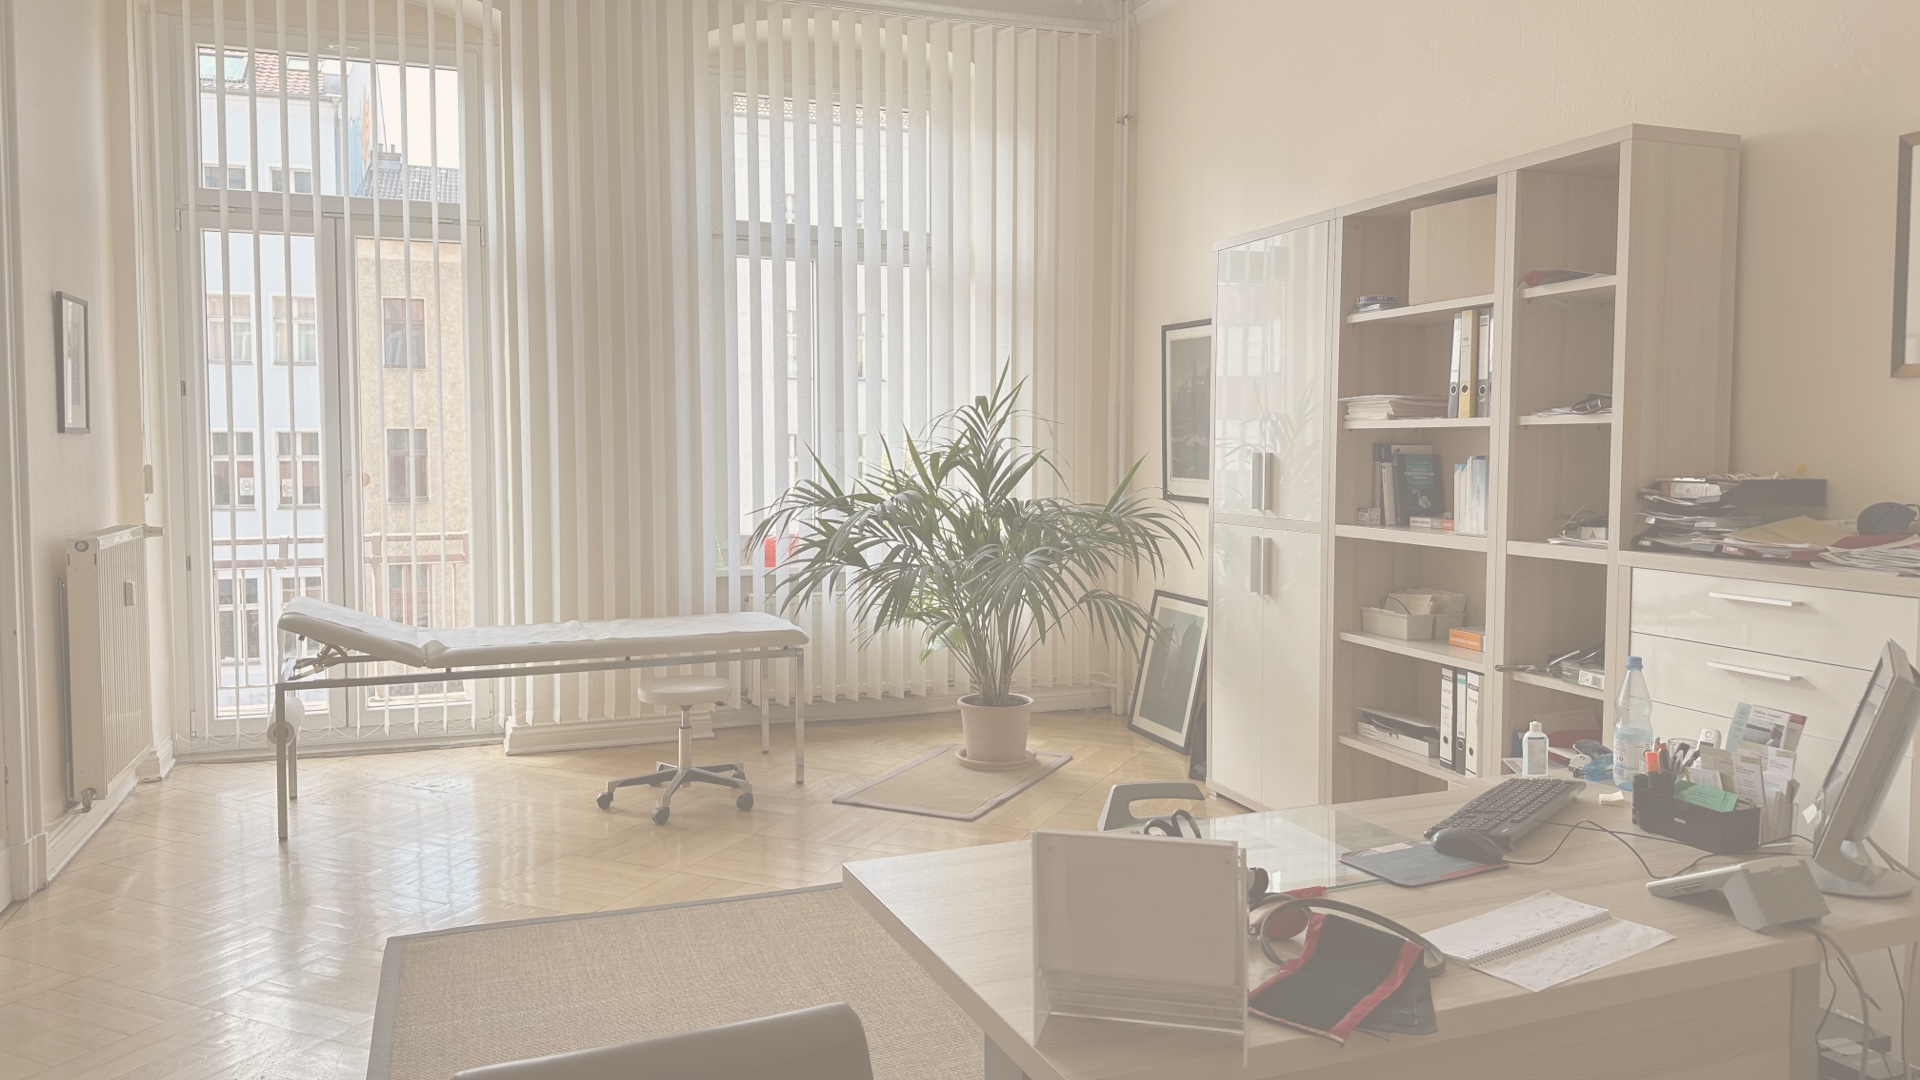
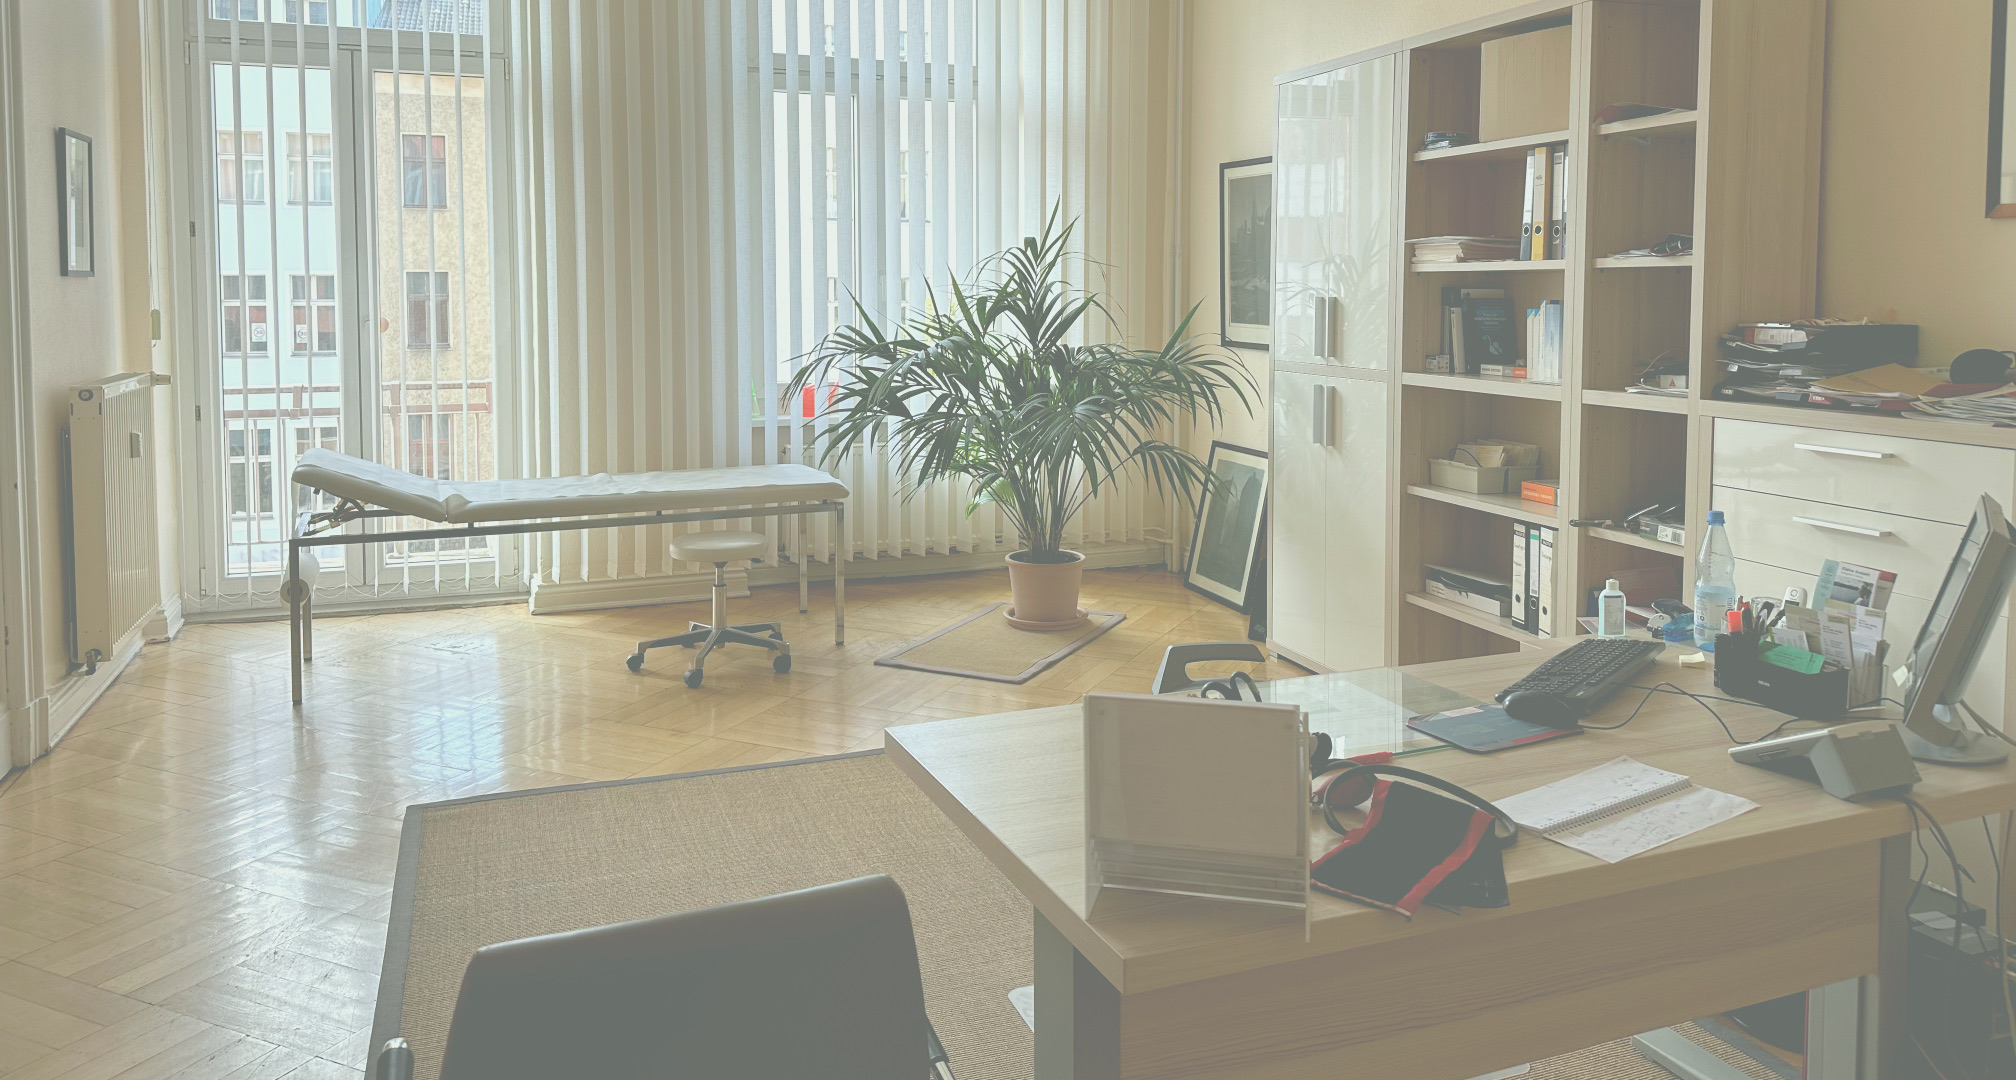
change

diff --git a/app/HeroSection.tsx b/app/HeroSection.tsx
@@ -70,11 +70,11 @@ export default function HeroSection() {
   return (
     <div className="relative isolate overflow-hidden pt-14 bg-fixed bg-cover" style={{ backgroundImage: 'url("/images/clinic/clinic-new.jpeg")', position: 'relative' }}>
       <div className="mx-auto max-w-2xl py-32 sm:py-48 lg:py-56 relative">
-        <div className="text-center drop-shadow-2xl relative z-10">
-          <h1 className="text-4xl font-regular tracking-tight font-serif text-primary sm:text-6xl">
+        <div className="text-center drop-shadow-xl relative z-10">
+          <h1 className="text-4xl font-regular drop-shadow-md tracking-tight font-serif text-primary sm:text-6xl">
             PRAXIS JONA
           </h1>
-          <h2 className="mt-6 text-2xl font-medium leading-8 text-primary">
+          <h2 className="mt-6 text-2xl drop-shadow-md font-medium leading-8 text-primary">
             Ganzheitliche Betreuung für ein gesundes Leben – Bei uns bist Du mehr als nur ein weiterer Patient
           </h2>
         </div>
